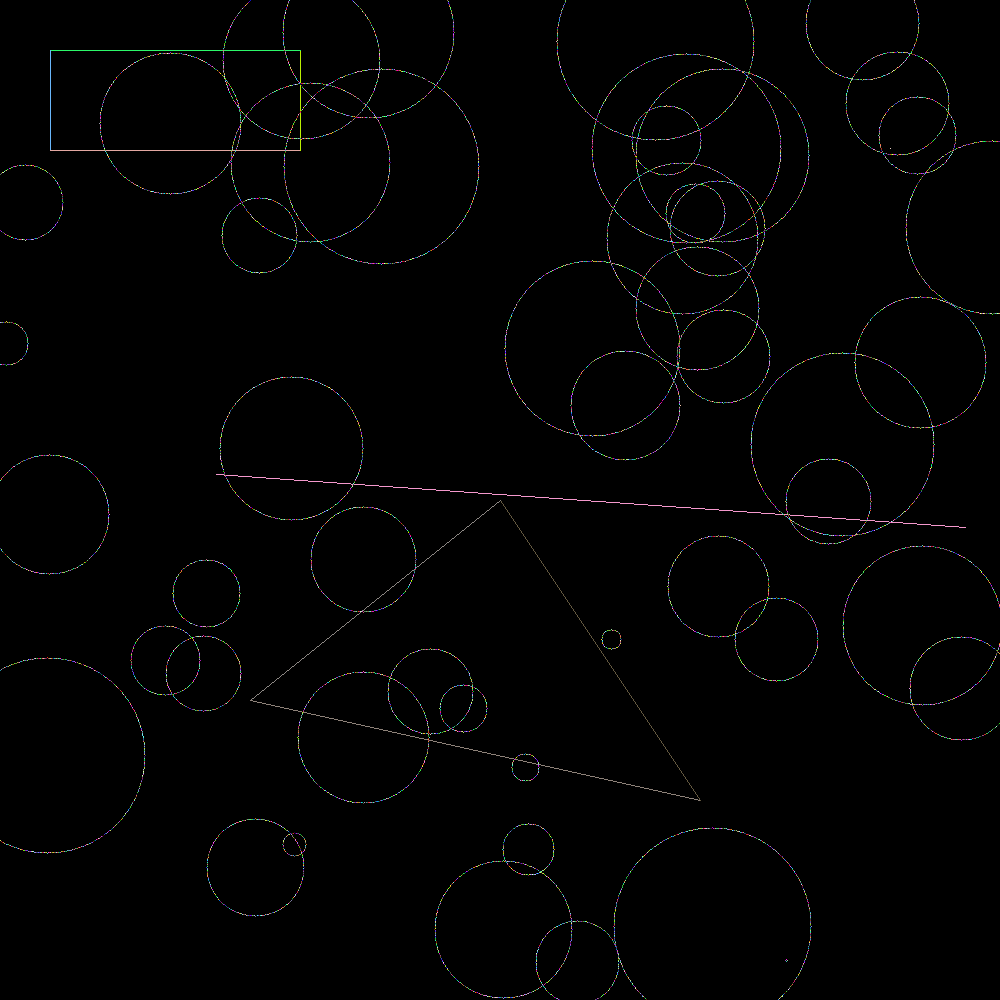
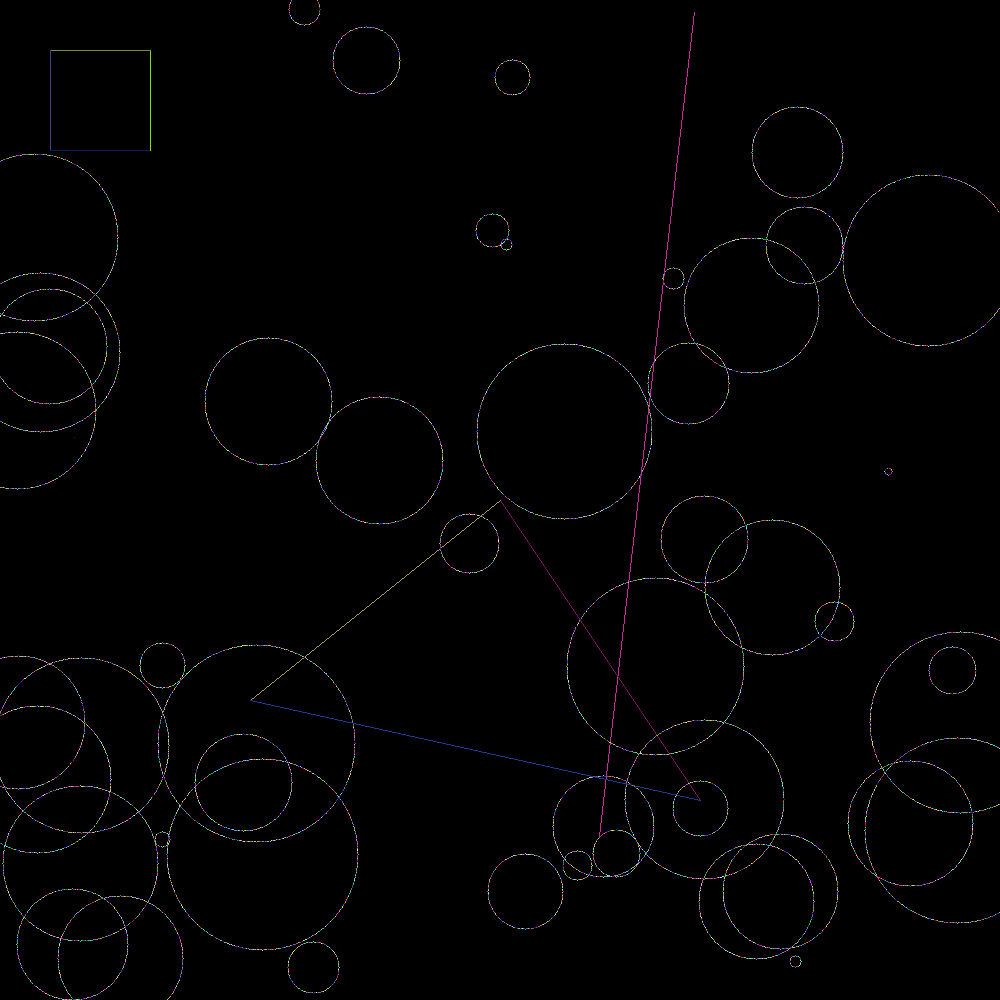
Auto Push

diff --git a/src/main.rs b/src/main.rs
@@ -11,7 +11,7 @@ fn main() {
 
     gs::Point::random(image.width, image.height).draw(&mut image);
 
-    let rectangle = gs::Rectangle::new(&gs::Point::new(300, 150), &gs::Point::new(50, 50));
+    let rectangle = gs::Rectangle::new(&gs::Point::new(150, 150), &gs::Point::new(50, 50));
     rectangle.draw(&mut image);
 
     let triangle = gs::Triangle::new (
